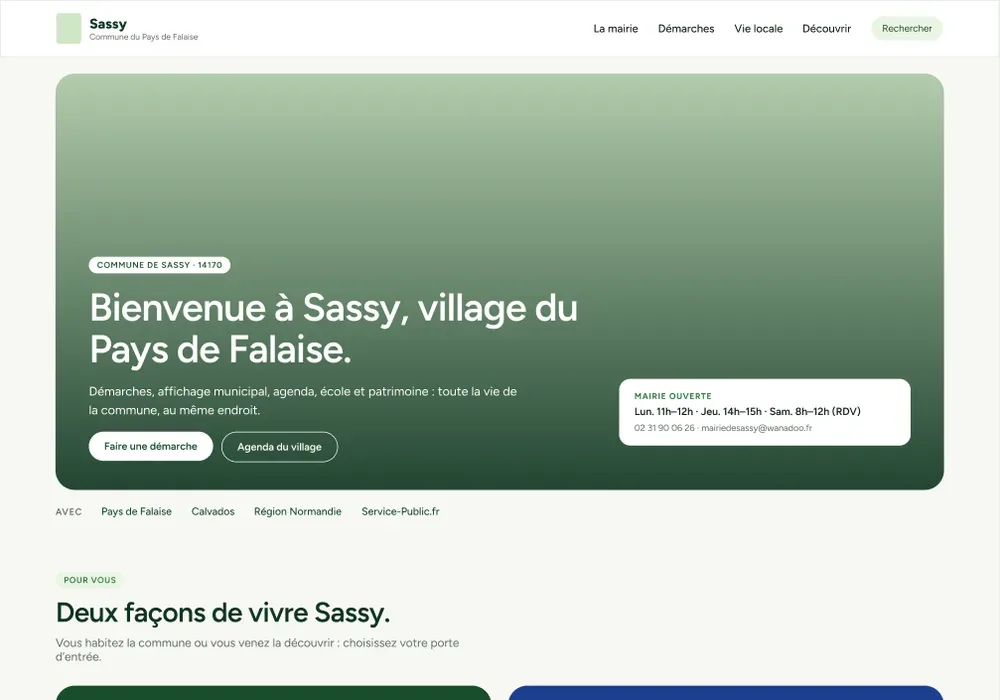
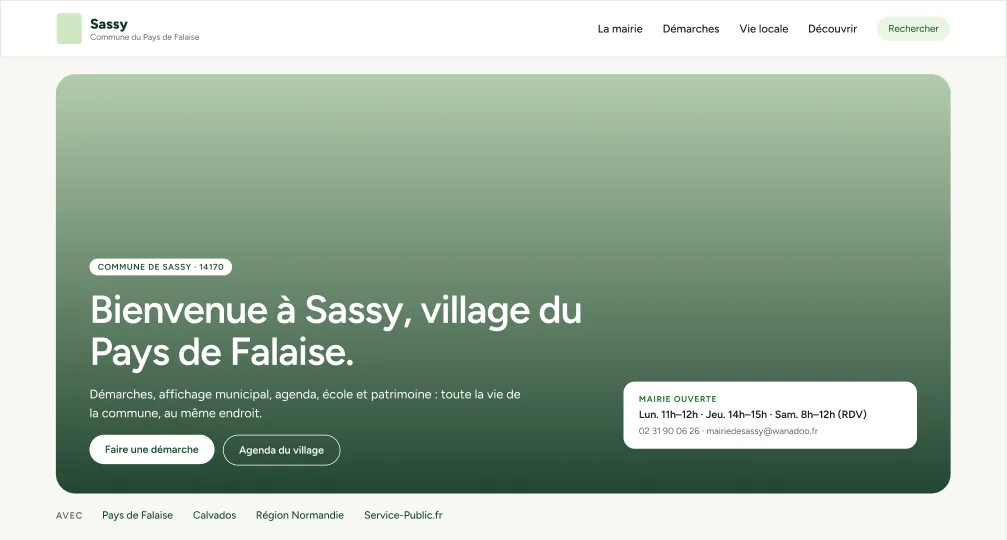
dev: maquettes Figma pleine largeur, recadrées
Claude-Session: https://claude.ai/code/session_01PL5uDWbHu6DrzALGX3Hvpk

diff --git a/assets/css/dev.css b/assets/css/dev.css
@@ -1,1 +1,1 @@
-:root{--navy: #1B3560;--signal: #3E8E5C}*{box-sizing:border-box}html{scroll-behavior:smooth}@media(prefers-reduced-motion: reduce){html{scroll-behavior:auto}*{animation-duration:.01ms !important;animation-iteration-count:1 !important;transition-duration:.01ms !important}}body{margin:0;background:#eef1ef;color:#10151c;font-family:"IBM Plex Sans",sans-serif;line-height:1.5}a{color:inherit}a:focus-visible{outline:2px solid #3e8e5c;outline-offset:3px}button:focus-visible{outline:2px solid #3e8e5c;outline-offset:3px}.mono{font-family:"IBM Plex Mono",monospace}.wrap{max-width:920px;margin:0 auto;padding:0 24px}.topbar{display:flex;justify-content:space-between;align-items:center;padding:20px 24px;border-bottom:1px solid #c6d0cb;font-family:"IBM Plex Mono",monospace;font-size:13px}.topbar .brand{color:#1b3560;font-weight:500;text-decoration:none}.topbar nav a{margin-left:20px;text-decoration:none;color:#10151c;opacity:.75}.topbar nav a:hover{opacity:1;color:#3e8e5c}.topbar nav a:focus-visible{outline:2px solid #3e8e5c;outline-offset:3px}.hero{padding:96px 0 72px}.hero h1{font-family:"Space Grotesk",sans-serif;font-weight:700;font-size:clamp(34px,6vw,56px);line-height:1.05;letter-spacing:-0.01em;margin:0 0 20px;color:#1b3560}.hero p.lede{font-size:18px;max-width:56ch;color:#2b3a45;margin:0 0 32px}.boot{font-family:"IBM Plex Mono",monospace;font-size:13px;color:#3e8e5c;margin-bottom:28px;min-height:1.4em}.boot::after{content:"▍";animation:blink 1s steps(1) infinite}@keyframes blink{50%{opacity:0}}.hero-tags{display:flex;flex-wrap:wrap;gap:8px}.tag{background:#fbfcfb;border:1px solid #c6d0cb;border-radius:2px;font-family:"IBM Plex Mono",monospace;font-size:12px;padding:6px 10px}.section{padding:56px 0}.section+.section{border-top:1px solid #c6d0cb}.section h2{font-family:"Space Grotesk",sans-serif;font-size:28px;margin:0 0 32px;color:#1b3560}.section-label{font-family:"IBM Plex Mono",monospace;font-size:12px;text-transform:uppercase;letter-spacing:.08em;color:#b87a2e;margin:0 0 8px}.about-grid{display:grid;grid-template-columns:1fr;gap:28px}@media(min-width: 720px){.about-grid{grid-template-columns:1.3fr 1fr}}.about-text p{margin:0 0 16px;color:#2b3a45}.path{background:#fbfcfb;border:1px solid #c6d0cb;border-radius:2px;font-family:"IBM Plex Mono",monospace;font-size:13px;padding:18px}.path .step{display:flex;gap:10px;padding:6px 0}.path .step:not(:last-child){border-bottom:1px dashed #c6d0cb}.path .yr{color:#b87a2e;min-width:52px}.project{background:#fbfcfb;border:1px solid #c6d0cb;border-radius:2px;padding:28px;margin-bottom:24px}.project h3{font-family:"Space Grotesk",sans-serif;font-size:22px;margin:0;color:#10151c}.project p.desc{margin:0 0 16px;color:#2b3a45}.project code{font-family:"IBM Plex Mono",monospace;font-size:.9em;background:#e2e7e4;padding:1px 4px}.project-head{display:flex;justify-content:space-between;align-items:baseline;flex-wrap:wrap;gap:8px;margin-bottom:12px}.status{font-family:"IBM Plex Mono",monospace;font-size:11px;padding:3px 8px;background:#dceae1;color:#3e8e5c;border-radius:2px;white-space:nowrap}.logline{font-family:"IBM Plex Mono",monospace;font-size:12.5px;color:#4a5a63;border-top:1px solid #e2e7e4;padding-top:14px;display:grid;gap:6px}.logline span.k{color:#b87a2e}.logline a{color:#1b3560;text-underline-offset:2px}.highlights{margin:14px 0 0;padding-left:18px;color:#2b3a45;font-size:14.5px}.highlights li{margin-bottom:6px}.shots{display:grid;grid-template-columns:1fr;gap:12px;margin:18px 0 6px}@media(min-width: 720px){.shots{grid-template-columns:1fr 1fr}}@media(min-width: 720px){.shots.one{grid-template-columns:minmax(0, 520px)}}.shots figure{margin:0}.shots img{display:block;width:100%;height:auto;border:1px solid #c6d0cb;border-radius:2px;background:#fbfcfb}.shots figcaption{font-family:"IBM Plex Mono",monospace;font-size:11.5px;color:#4a5a63;margin-top:6px}.mockup{margin:18px 0 6px;background:#0b1526;border:1px solid #1c2a3f;border-radius:6px;overflow:hidden;font-family:"IBM Plex Sans",sans-serif}.mockup-bar{display:flex;align-items:center;justify-content:space-between;padding:9px 14px;background:#0e1a2e;border-bottom:1px solid #1c2a3f;font-family:"IBM Plex Mono",monospace;font-size:10.5px;color:#7891ab}.mockup-bar .badge{background:rgba(62,142,92,.18);color:#57c98a;border:1px solid rgba(62,142,92,.35);padding:2px 7px;border-radius:20px;font-weight:600;margin-right:8px}.mockup-body{display:grid;grid-template-columns:1fr 1fr;gap:1px;background:#1c2a3f}@media(max-width: 560px){.mockup-body{grid-template-columns:1fr}}.mockup-col{background:#0b1526;padding:14px}.mockup-col .role{font-family:"IBM Plex Mono",monospace;font-size:10px;text-transform:uppercase;letter-spacing:.06em;color:#7891ab;margin-bottom:8px}.mockup-col .role em{font-style:normal;background:rgba(255,255,255,.08);color:#d7e0ea;padding:2px 7px;border-radius:20px;margin-left:6px}.mockup-card{background:#f4efe6;border-radius:4px;padding:12px;color:#1a1a1a}.mockup-card .t{font-weight:600;font-size:13px;margin-bottom:2px}.mockup-card .s{font-size:11px;color:#6b7280}.mockup-row{display:flex;justify-content:space-between;align-items:center;background:#fff;border-radius:3px;padding:7px 10px;margin-top:8px;font-size:11.5px}.mockup-row .btn{background:#2aa9cc;color:#fff;font-size:10.5px;font-weight:600;padding:4px 9px;border-radius:3px}footer{padding:56px 0 80px}.contact-box{background:#1b3560;color:#fbfcfb;border-radius:2px;padding:36px}.contact-box h2{font-family:"Space Grotesk",sans-serif;margin:0 0 12px;font-size:24px}.contact-box p{margin:0 0 20px;color:#c9d3de}.btn-row{display:flex;flex-wrap:wrap;gap:12px}.btn{font-family:"IBM Plex Mono",monospace;font-size:13px;text-decoration:none;padding:11px 18px;border-radius:2px;border:1px solid rgba(255,255,255,.3);color:#fbfcfb;transition:background .15s ease,border-color .15s ease}.btn:hover{border-color:#fbfcfb}.btn.primary{background:#3e8e5c;border-color:#3e8e5c}.btn.primary:hover{background:#357b4e}.foot-note{font-family:"IBM Plex Mono",monospace;font-size:12px;color:#7c8b95;margin-top:40px;text-align:center}.foot-note a{color:#1b3560;text-decoration:underline}
+:root{--navy: #1B3560;--signal: #3E8E5C}*{box-sizing:border-box}html{scroll-behavior:smooth}@media(prefers-reduced-motion: reduce){html{scroll-behavior:auto}*{animation-duration:.01ms !important;animation-iteration-count:1 !important;transition-duration:.01ms !important}}body{margin:0;background:#eef1ef;color:#10151c;font-family:"IBM Plex Sans",sans-serif;line-height:1.5}a{color:inherit}a:focus-visible{outline:2px solid #3e8e5c;outline-offset:3px}button:focus-visible{outline:2px solid #3e8e5c;outline-offset:3px}.mono{font-family:"IBM Plex Mono",monospace}.wrap{max-width:920px;margin:0 auto;padding:0 24px}.topbar{display:flex;justify-content:space-between;align-items:center;padding:20px 24px;border-bottom:1px solid #c6d0cb;font-family:"IBM Plex Mono",monospace;font-size:13px}.topbar .brand{color:#1b3560;font-weight:500;text-decoration:none}.topbar nav a{margin-left:20px;text-decoration:none;color:#10151c;opacity:.75}.topbar nav a:hover{opacity:1;color:#3e8e5c}.topbar nav a:focus-visible{outline:2px solid #3e8e5c;outline-offset:3px}.hero{padding:96px 0 72px}.hero h1{font-family:"Space Grotesk",sans-serif;font-weight:700;font-size:clamp(34px,6vw,56px);line-height:1.05;letter-spacing:-0.01em;margin:0 0 20px;color:#1b3560}.hero p.lede{font-size:18px;max-width:56ch;color:#2b3a45;margin:0 0 32px}.boot{font-family:"IBM Plex Mono",monospace;font-size:13px;color:#3e8e5c;margin-bottom:28px;min-height:1.4em}.boot::after{content:"▍";animation:blink 1s steps(1) infinite}@keyframes blink{50%{opacity:0}}.hero-tags{display:flex;flex-wrap:wrap;gap:8px}.tag{background:#fbfcfb;border:1px solid #c6d0cb;border-radius:2px;font-family:"IBM Plex Mono",monospace;font-size:12px;padding:6px 10px}.section{padding:56px 0}.section+.section{border-top:1px solid #c6d0cb}.section h2{font-family:"Space Grotesk",sans-serif;font-size:28px;margin:0 0 32px;color:#1b3560}.section-label{font-family:"IBM Plex Mono",monospace;font-size:12px;text-transform:uppercase;letter-spacing:.08em;color:#b87a2e;margin:0 0 8px}.about-grid{display:grid;grid-template-columns:1fr;gap:28px}@media(min-width: 720px){.about-grid{grid-template-columns:1.3fr 1fr}}.about-text p{margin:0 0 16px;color:#2b3a45}.path{background:#fbfcfb;border:1px solid #c6d0cb;border-radius:2px;font-family:"IBM Plex Mono",monospace;font-size:13px;padding:18px}.path .step{display:flex;gap:10px;padding:6px 0}.path .step:not(:last-child){border-bottom:1px dashed #c6d0cb}.path .yr{color:#b87a2e;min-width:52px}.project{background:#fbfcfb;border:1px solid #c6d0cb;border-radius:2px;padding:28px;margin-bottom:24px}.project h3{font-family:"Space Grotesk",sans-serif;font-size:22px;margin:0;color:#10151c}.project p.desc{margin:0 0 16px;color:#2b3a45}.project code{font-family:"IBM Plex Mono",monospace;font-size:.9em;background:#e2e7e4;padding:1px 4px}.project-head{display:flex;justify-content:space-between;align-items:baseline;flex-wrap:wrap;gap:8px;margin-bottom:12px}.status{font-family:"IBM Plex Mono",monospace;font-size:11px;padding:3px 8px;background:#dceae1;color:#3e8e5c;border-radius:2px;white-space:nowrap}.logline{font-family:"IBM Plex Mono",monospace;font-size:12.5px;color:#4a5a63;border-top:1px solid #e2e7e4;padding-top:14px;display:grid;gap:6px}.logline span.k{color:#b87a2e}.logline a{color:#1b3560;text-underline-offset:2px}.highlights{margin:14px 0 0;padding-left:18px;color:#2b3a45;font-size:14.5px}.highlights li{margin-bottom:6px}.shots{display:grid;grid-template-columns:1fr;gap:20px;margin:18px 0 6px}.shots figure{margin:0}.shots figure.compact{max-width:680px}.shots img{display:block;width:100%;height:auto;border:1px solid #c6d0cb;border-radius:2px;background:#fbfcfb}.shots.narrow figure{max-width:668px}.shots figcaption{font-family:"IBM Plex Mono",monospace;font-size:11.5px;color:#4a5a63;margin-top:6px}.mockup{margin:18px 0 6px;background:#0b1526;border:1px solid #1c2a3f;border-radius:6px;overflow:hidden;font-family:"IBM Plex Sans",sans-serif}.mockup-bar{display:flex;align-items:center;justify-content:space-between;padding:9px 14px;background:#0e1a2e;border-bottom:1px solid #1c2a3f;font-family:"IBM Plex Mono",monospace;font-size:10.5px;color:#7891ab}.mockup-bar .badge{background:rgba(62,142,92,.18);color:#57c98a;border:1px solid rgba(62,142,92,.35);padding:2px 7px;border-radius:20px;font-weight:600;margin-right:8px}.mockup-body{display:grid;grid-template-columns:1fr 1fr;gap:1px;background:#1c2a3f}@media(max-width: 560px){.mockup-body{grid-template-columns:1fr}}.mockup-col{background:#0b1526;padding:14px}.mockup-col .role{font-family:"IBM Plex Mono",monospace;font-size:10px;text-transform:uppercase;letter-spacing:.06em;color:#7891ab;margin-bottom:8px}.mockup-col .role em{font-style:normal;background:rgba(255,255,255,.08);color:#d7e0ea;padding:2px 7px;border-radius:20px;margin-left:6px}.mockup-card{background:#f4efe6;border-radius:4px;padding:12px;color:#1a1a1a}.mockup-card .t{font-weight:600;font-size:13px;margin-bottom:2px}.mockup-card .s{font-size:11px;color:#6b7280}.mockup-row{display:flex;justify-content:space-between;align-items:center;background:#fff;border-radius:3px;padding:7px 10px;margin-top:8px;font-size:11.5px}.mockup-row .btn{background:#2aa9cc;color:#fff;font-size:10.5px;font-weight:600;padding:4px 9px;border-radius:3px}footer{padding:56px 0 80px}.contact-box{background:#1b3560;color:#fbfcfb;border-radius:2px;padding:36px}.contact-box h2{font-family:"Space Grotesk",sans-serif;margin:0 0 12px;font-size:24px}.contact-box p{margin:0 0 20px;color:#c9d3de}.btn-row{display:flex;flex-wrap:wrap;gap:12px}.btn{font-family:"IBM Plex Mono",monospace;font-size:13px;text-decoration:none;padding:11px 18px;border-radius:2px;border:1px solid rgba(255,255,255,.3);color:#fbfcfb;transition:background .15s ease,border-color .15s ease}.btn:hover{border-color:#fbfcfb}.btn.primary{background:#3e8e5c;border-color:#3e8e5c}.btn.primary:hover{background:#357b4e}.foot-note{font-family:"IBM Plex Mono",monospace;font-size:12px;color:#7c8b95;margin-top:40px;text-align:center}.foot-note a{color:#1b3560;text-decoration:underline}

diff --git a/dev.html b/dev.html
@@ -58,7 +58,7 @@
       </ul>
       <div class="shots">
         <figure><img src="/assets/dev/figma-module-admin-editeur.webp" alt="Maquette Figma de l'éditeur : panneau latéral et page en cours d'édition" loading="lazy"><figcaption>Maquette Figma · l'éditeur</figcaption></figure>
-        <figure><img src="/assets/dev/figma-module-admin-assistant.webp" alt="Maquette Figma de l'assistant de création de page" loading="lazy"><figcaption>Maquette Figma · l'assistant de page</figcaption></figure>
+        <figure class="compact"><img src="/assets/dev/figma-module-admin-assistant.webp" alt="Maquette Figma de l'assistant de création de page" loading="lazy"><figcaption>Maquette Figma · l'assistant de page</figcaption></figure>
       </div>
       <div class="logline">
         <div><span class="k">stack:</span> JavaScript (modules ES), HTML, CSS, PHP pour l'hébergement</div>
@@ -79,7 +79,7 @@
         <li>Contenu structuré en collections, pensé pour être mis à jour par des non-développeurs</li>
         <li>Composants et styles réutilisables, police Figtree hébergée sur le site</li>
       </ul>
-      <div class="shots one">
+      <div class="shots">
         <figure><img src="/assets/dev/figma-mairie-sassy.webp" alt="Maquette Figma de l'accueil du site de la mairie" loading="lazy"><figcaption>Maquette Figma · accueil</figcaption></figure>
       </div>
       <div class="logline">
@@ -100,7 +100,7 @@
         <li>Hiérarchie de l'information et lisibilité travaillées pour un public non technique</li>
         <li>Cohérence stricte avec l'identité de marque existante (logo, palette, ton)</li>
       </ul>
-      <div class="shots one">
+      <div class="shots narrow">
         <figure><img src="/assets/dev/figma-procom.webp" alt="Maquette Figma de l'accueil de Procom Solution" loading="lazy"><figcaption>Maquette Figma · accueil</figcaption></figure>
       </div>
       <div class="logline">

diff --git a/scss/dev/_projects.scss b/scss/dev/_projects.scss
@@ -35,16 +35,17 @@
   li { margin-bottom: 6px; }
 }
 
-// Maquettes Figma
+// Maquettes Figma : une image par ligne, pleine largeur de la carte,
+// pour que le texte des maquettes reste lisible
 .shots {
-  display: grid; grid-template-columns: 1fr; gap: 12px; margin: 18px 0 6px;
-  @include tablet-up { grid-template-columns: 1fr 1fr; }
-  &.one { @include tablet-up { grid-template-columns: minmax(0, 520px); } }
+  display: grid; grid-template-columns: 1fr; gap: 20px; margin: 18px 0 6px;
 
-  figure { margin: 0; }
+  figure { margin: 0; &.compact { max-width: 680px; } }
   img {
     display: block; width: 100%; height: auto;
     border: 1px solid $mist; border-radius: $radius; background: $white;
   }
+  // Image d'origine étroite : on ne l'agrandit pas (sinon elle devient floue)
+  &.narrow figure { max-width: 668px; }
   figcaption { @include mono(11.5px); color: #4A5A63; margin-top: 6px; }
 }
